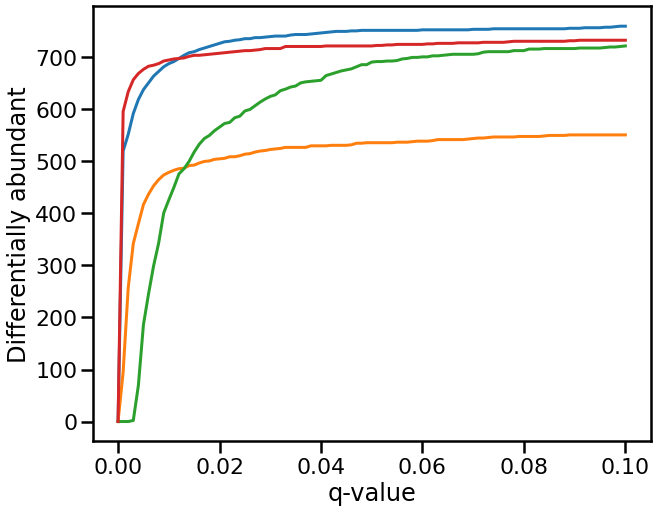
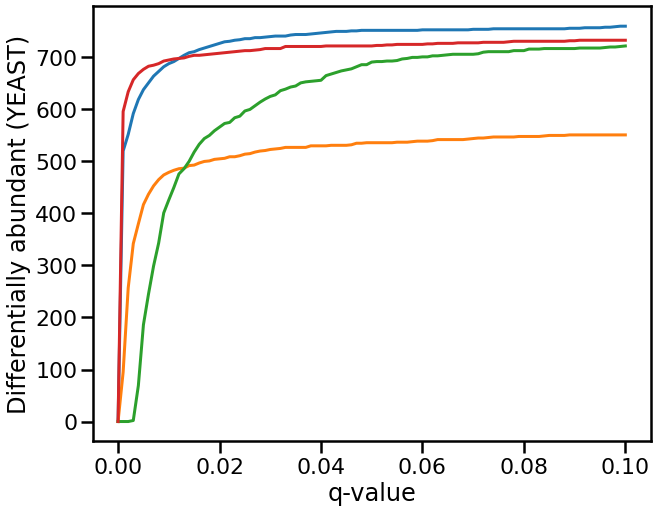
Added differential abundance plot

Changed region(s): [[0.0, 0.0625, 0.0609, 0.8125]]

diff --git a/doc/benchmark/benchmark.tex b/doc/benchmark/benchmark.tex
@@ -293,8 +293,8 @@ We strived to validate the Triqler method for a DIA setting. We hence investigat
 %        B \includegraphics[width=0.45\linewidth]{../../result/report_plots/diann_fraction_missing_values.png} & \\%\includegraphics[width=0.3\linewidth]{} \\ 
 
 % OSW RESULTS
-        A \includegraphics[width=0.41\linewidth]{../../result/report_plots/osw_sigma_mu_violinplot_qval_filtered_peptide_filtered_qbinned.png} & &%\includegraphics[width=0.3\linewidth]{} & 
-        B \includegraphics[width=0.49\linewidth]{../../result/report_plots/osw_fraction_missing_values.png} & \\%\includegraphics[width=0.3\linewidth]{} \\
+        A \includegraphics[width=0.42\linewidth]{../../result/report_plots/osw_sigma_mu_kde_qval_filtered_peptide_filtered_qbinned.png} & &%\includegraphics[width=0.3\linewidth]{} & 
+        B \includegraphics[width=0.44\linewidth]{../../result/report_plots/osw_fraction_missing_values.png} & \\%\includegraphics[width=0.3\linewidth]{} \\
 
     \end{tabular}
     \todo[inline]{Fill in the fixme below..\\
@@ -305,7 +305,8 @@ We strived to validate the Triqler method for a DIA setting. We hence investigat
     B: Zoom in on the lower left of the plot so that one can see what is going on.\\
     B: Spell out what the red line signifies, how you fitted it, and why you think the result indicates that DIA data works for Triqler. }
 
-    \caption{{\bf Triqler'ss assumptions of peptide abundance values are valid also for the petide intensities in DIA data.}  (A) We plotted the standard deviation as a function of the mean of every peptide intensity in the TripleTOF6600 section of the LFQ Bench set  in log-log scale. We observe a nearly uniform offset in standard deviation across the intensity scale, demonstrating that $\log(\sigma) \approx \log(\mu) + \log(k)$ and hence   $\sigma \approx \mu k$ (B) We plotted the fraction of peptides observing one missing value for each triplicate in the set. We obseve that this empirical distribution roughly follows the assumed function FIXMEe.}
+    %\caption{{\bf Triqler's assumptions of peptide abundance values are valid also for the petide intensities in DIA data.}  (A) We plotted the standard deviation as a function of the mean of every peptide intensity in the TripleTOF6600 section of the LFQ Bench set  in log-log scale. We observe a nearly uniform offset in standard deviation across the intensity scale, demonstrating that $\log(\sigma) \approx \log(\mu) + \log(k)$ and hence   $\sigma \approx \mu k$ (B) We plotted the fraction of peptides observing one missing value for each triplicate in the set. We obseve that this empirical distribution roughly follows the assumed function FIXMEe.}
+        \caption{{\bf Triqler's assumptions of peptide abundance values are valid also for the petide intensities in DIA data.}  (A) We grouped the peptide intensities to equally sized bins and plotted the gaussian kernal density estimate for each bin. The bins are approximately the same shape, demonstrating that $\log(\sigma) \approx \log(\mu) + \log(k)$ and hence   $\sigma \approx \mu k$ (B) We plotted the fraction of peptides observing one missing value for each triplicate in the set. We obseve that this empirical distribution roughly follows the assumed function FIXME.}
       \label{fig:assumptions}
 \end{figure}
 
@@ -339,6 +340,30 @@ To get an overview of the results of the methods we first made histograms of the
     \caption{{\bf Comparison of reported fold change distributions.} We used peptide data from (A-D) DDA spectrum libraries and (E-H) psedo spectra as generated by 
     (A,E) Triqler, (B,F) MSqRobSum, (C,G) MSstats, and (D,H) Top-3. \label{fig:fc_histogram}}
 \end{figure}
+
+
+
+\subsubsection*{Differential abundance}
+
+We also report the amount of differentially abundant proteins in Figure \ref{fig:da_lineplot} to show the performance of of the compared methods.
+
+\begin{figure}[hbt]
+    \centering
+    %\includegraphics[width=16cm]{../../result/2021-08-13_docs_plots/intensity_plot.png}
+    \begin{tabular}{lclc} 
+        A & \includegraphics[width=0.4\linewidth]{../../result/report_plots/osw_de_all.png} & 
+        E & \includegraphics[width=0.4\linewidth]{../../result/report_plots/diann_de_all.png} \\ 
+        B & \includegraphics[width=0.4\linewidth]{../../result/report_plots/osw_de_ecoli.png} & 
+        F & \includegraphics[width=0.4\linewidth]{../../result/report_plots/diann_de_ecoli.png} \\ 
+        C & \includegraphics[width=0.4\linewidth]{../../result/report_plots/osw_de_yeast.png} & 
+        G & \includegraphics[width=0.4\linewidth]{../../result/report_plots/diann_de_yeast.png} \\ 
+        D & \includegraphics[width=0.4\linewidth]{../../result/report_plots/osw_de_human.png} &
+        H & \includegraphics[width=0.4\linewidth]{../../result/report_plots/diann_de_human.png} 
+    \end{tabular}
+    \caption{{\bf Comparison of reported differential abundance.} Differential abundance is reported for (A-D) DDA spectrum libraries and (E-H) pseudo spectra for each proteome 
+    (A,E) All, (B,F) ECOLI, (C,G) YEAST, and (D,H) HUMAN. \label{fig:da_lineplot}}
+\end{figure}
+
 
 \subsubsection*{Comparison of ability to differentiate differentially abundant proteins}
 
@@ -495,6 +520,7 @@ Fig. \ref{fig:osw_de_human_vs_de_specie} and \ref{fig:DIANN_de_human_vs_de_speci
 \end{figure}
 
 \end{comment}
+
 
 \section*{Discussion}
 
